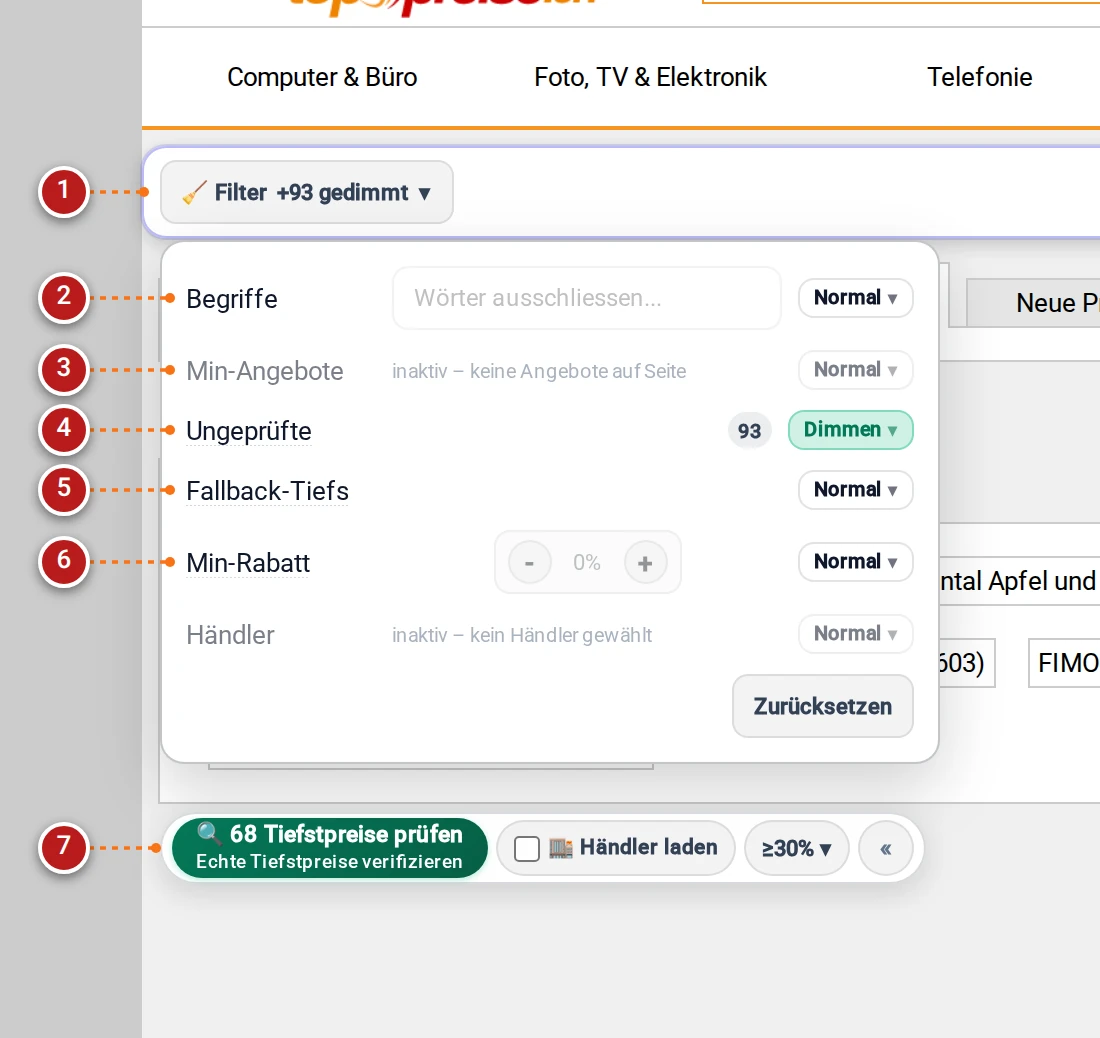
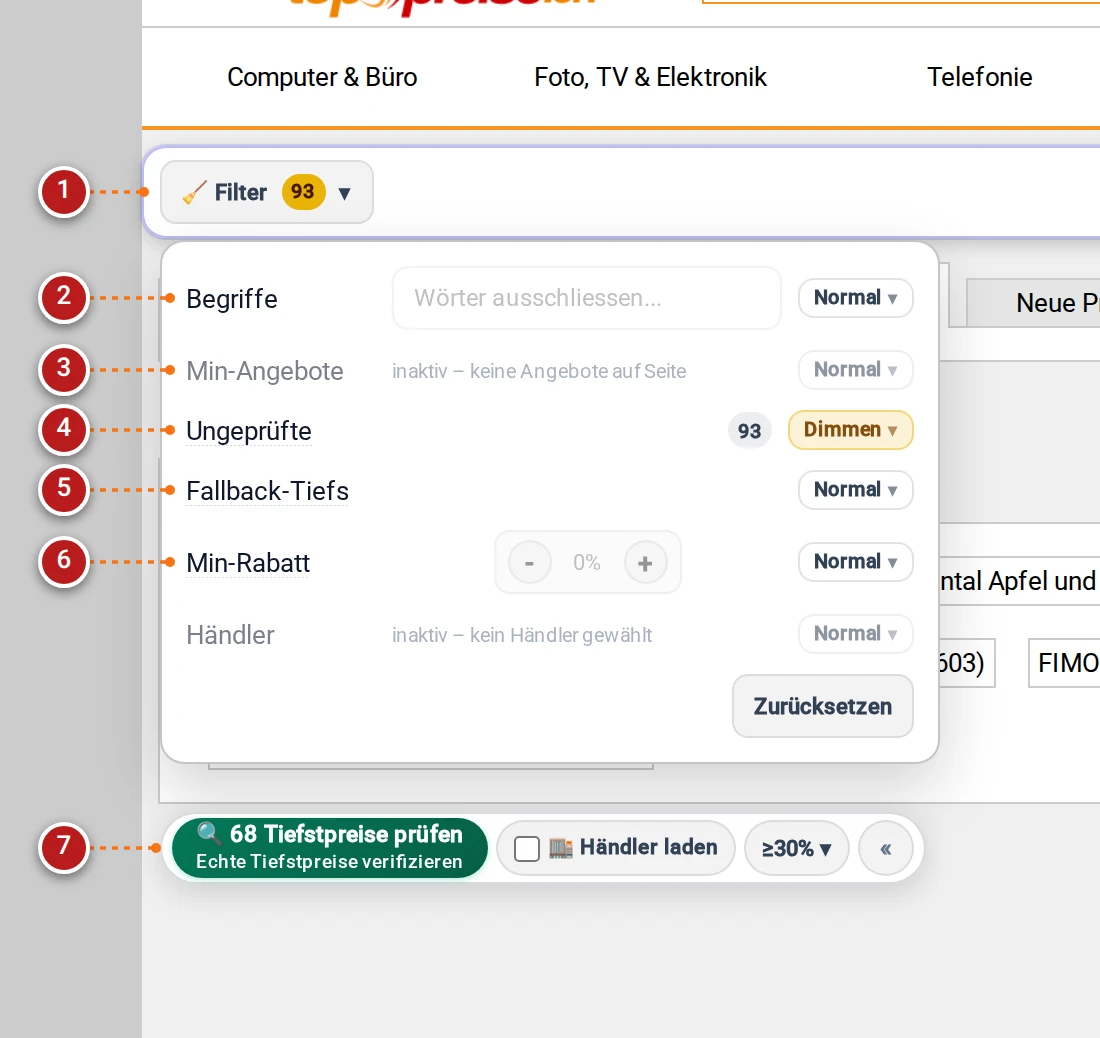
docs(screenshots): regenerate toolbar and feed shots with color-coded pills and high contrast title

diff --git a/toppreise/docs/shots/index.html b/toppreise/docs/shots/index.html
@@ -125,7 +125,7 @@
 <body>
 <header>
   <h1>Toppreise.ch Suite — Screenshot Gallery</h1>
-  <div class="timestamp">Generiert: 2026-10-18 16:45:03 UTC</div>
+  <div class="timestamp">Generiert: 2026-10-18 17:19:36 UTC</div>
 </header>
 <main class="gallery-grid">
   
